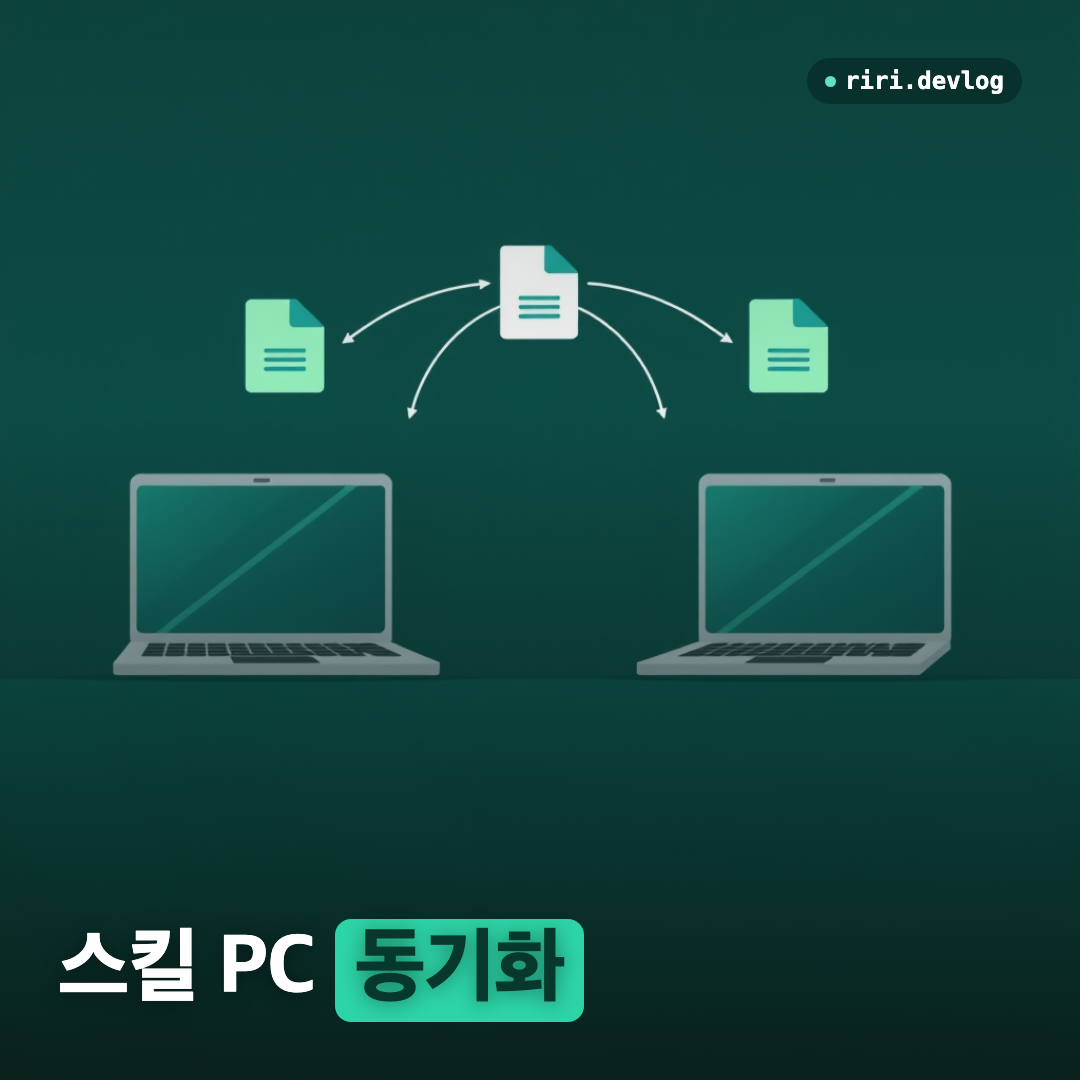
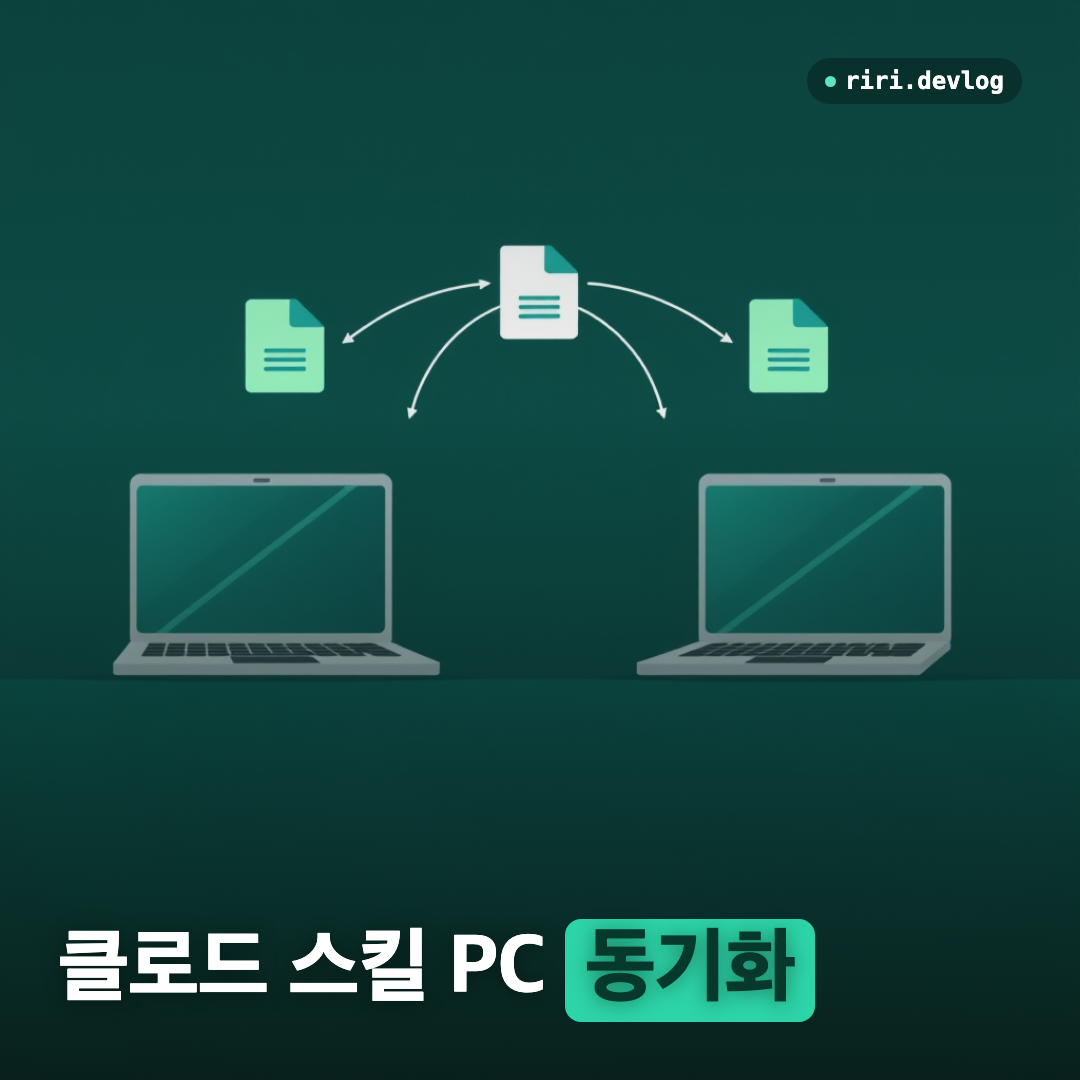
fix: 전체 커버 헤드라인을 주제 식별형으로 통일(15건 재생성, MAP 동기화)

Changed region(s): [[0.0611, 0.825, 0.7639, 0.9472]]

diff --git a/tools/gen_cover.py b/tools/gen_cover.py
@@ -73,18 +73,18 @@ def render(bg, slug, category, headline, highlight):
 
 
 MAP = [
-    ("claude-code-blog-automation-github-pages",            "자동화",    "블로그 자동 발행",   "자동 발행"),
-    ("website-analytics-goatcounter-ga4-search-console",    "운영",      "방문 통계 3종",     "3종"),
-    ("claude-code-skills-cross-machine-sync",               "자동화",    "스킬 PC 동기화",    "동기화"),
-    ("blog-to-instagram-automation-1-design",               "자동화",    "전체 설계",        "설계"),
-    ("blog-to-instagram-automation-2-card-generation",      "자동화",    "카드 자동 생성",    "자동"),
-    ("blog-to-instagram-automation-3-design",               "자동화",    "벤치마킹 ≠ 카피",   "≠ 카피"),
-    ("blog-to-instagram-automation-4-publish",              "자동화",    "심사 없이 자동 발행", "심사 없이"),
+    ("claude-code-blog-automation-github-pages", "자동화", "클로드코드로 블로그 자동화", "자동화"),
+    ("website-analytics-goatcounter-ga4-search-console", "운영", "블로그 통계 3종 셋업", "3종"),
+    ("claude-code-skills-cross-machine-sync", "자동화", "클로드 스킬 PC 동기화", "동기화"),
+    ("blog-to-instagram-automation-1-design", "자동화", "인스타 자동화 설계도", "설계도"),
+    ("blog-to-instagram-automation-2-card-generation", "자동화", "카드뉴스 자동 생성", "자동 생성"),
+    ("blog-to-instagram-automation-3-design", "자동화", "카드 벤치마킹 ≠ 카피", "≠ 카피"),
+    ("blog-to-instagram-automation-4-publish", "자동화", "인스타 심사 없이 발행", "심사 없이"),
     ("blog-to-instagram-automation-5-dm-wall",              "자동화",    "DM 자동화의 벽",    "벽"),
     ("ig-cloudflare-wrangler-login-failed",                 "트러블슈팅", "wrangler login 실패", "실패"),
     ("instagram-api-oauthexception-190-session-invalidated", "트러블슈팅", "OAuth 190 해결",   "해결"),
-    ("instagram-comment-webhook-not-working-dev-mode",      "트러블슈팅", "webhook이 안 올 때", "안 올 때"),
-    ("instagram-tester-invite-accept-error",                "트러블슈팅", "테스터 초대 실패",   "실패"),
+    ("instagram-comment-webhook-not-working-dev-mode", "트러블슈팅", "인스타 webhook 불통", "불통"),
+    ("instagram-tester-invite-accept-error", "트러블슈팅", "인스타 테스터 초대 실패", "실패"),
 ]
 
 

diff --git a/_posts/2026-06-11-claude-code-blog-automation-github-pages.md b/_posts/2026-06-11-claude-code-blog-automation-github-pages.md
@@ -1,6 +1,6 @@
 ---
 title: "클로드 코드 작업을 블로그로 자동 발행하기 — 조사부터 구축, 운영까지 한 세션의 기록"
-headline: "블로그 자동 발행"
+headline: "클로드코드로 블로그 자동화"
 date: 2026-06-11 13:10:00 +0900
 categories: [개발, 자동화]
 tags: [claude-code, github-pages, jekyll, chirpy, adsense, blog-automation, flux]

diff --git a/_posts/2026-06-19-blog-to-instagram-automation-3-design.md b/_posts/2026-06-19-blog-to-instagram-automation-3-design.md
@@ -1,6 +1,6 @@
 ---
 title: "블로그 글을 인스타그램에 자동 발행하기 (3) — 잘되는 카드 벤치마킹 vs 카피, 나만의 디자인"
-headline: "벤치마킹 ≠ 카피"
+headline: "카드 벤치마킹 ≠ 카피"
 date: 2026-06-19 10:10:00 +0900
 categories: [개발, 자동화]
 tags: [instagram, automation, design, ux-writing, blog-to-insta]

diff --git a/_posts/2026-06-19-blog-to-instagram-automation-2-card-generation.md b/_posts/2026-06-19-blog-to-instagram-automation-2-card-generation.md
@@ -1,6 +1,6 @@
 ---
 title: "블로그 글을 인스타그램에 자동 발행하기 (2) — 카드뉴스 자동 생성 (AI로 글자 넣으면 깨진다)"
-headline: "카드 자동 생성"
+headline: "카드뉴스 자동 생성"
 date: 2026-06-19 10:08:00 +0900
 categories: [개발, 자동화]
 tags: [instagram, automation, html, chrome-headless, blog-to-insta]

diff --git a/_posts/2026-06-19-blog-to-instagram-automation-4-publish.md b/_posts/2026-06-19-blog-to-instagram-automation-4-publish.md
@@ -1,6 +1,6 @@
 ---
 title: "블로그 글을 인스타그램에 자동 발행하기 (4) — Instagram API 심사 없이 자동 발행 (Composio)"
-headline: "심사 없이 자동 발행"
+headline: "인스타 심사 없이 발행"
 date: 2026-06-19 10:12:00 +0900
 categories: [개발, 자동화]
 tags: [instagram, automation, composio, api, blog-to-insta]

diff --git a/_posts/2026-06-19-instagram-tester-invite-accept-error.md b/_posts/2026-06-19-instagram-tester-invite-accept-error.md
@@ -1,6 +1,6 @@
 ---
 title: "Instagram 테스터 초대 수락 안 될 때 (manage_access '문제가 발생했습니다')"
-headline: "테스터 초대 실패"
+headline: "인스타 테스터 초대 실패"
 date: 2026-06-19 09:45:00 +0900
 categories: [개발, 트러블슈팅]
 tags: [instagram, meta-developers, troubleshooting, blog-to-insta]

diff --git a/_posts/2026-07-10-multiasset-backtest-index-alignment-bug.md b/_posts/2026-07-10-multiasset-backtest-index-alignment-bug.md
@@ -1,6 +1,6 @@
 ---
 title: "멀티에셋 백테스트가 수익률을 뻥튀기하는 이유 — 바 인덱스 정렬 함정"
-headline: "합산이 뻥튀기됐다"
+headline: "백테스트 수익률 뻥튀기"
 date: 2026-07-10 15:10:00 +0900
 categories: [개발, 트러블슈팅]
 tags: [백테스트, 퀀트, 멀티에셋, 시계열, 버그]

diff --git a/_posts/2026-07-10-financial-filter-bank-debt-ratio-false-positive.md b/_posts/2026-07-10-financial-filter-bank-debt-ratio-false-positive.md
@@ -1,6 +1,6 @@
 ---
 title: "재무 필터가 우량 은행을 걸러낼 때 — 부채비율 대신 계정 구조로 판별"
-headline: "우량 은행이 걸렸다"
+headline: "재무 필터가 은행 오탐"
 date: 2026-07-10 15:40:00 +0900
 categories: [개발, 트러블슈팅]
 tags: [재무분석, 부채비율, 금융업, 필터, dart]

diff --git a/_posts/2026-07-06-wso2-devportal-api-no-login.md b/_posts/2026-07-06-wso2-devportal-api-no-login.md
@@ -1,6 +1,6 @@
 ---
 title: "A사 API 포털, 회원가입 없이 스펙 전부 받아내기 (WSO2 Devportal)"
-headline: "가입 없이 스펙 확보"
+headline: "가입 없이 API 스펙 확보"
 date: 2026-07-06 15:00:00 +0900
 categories: [개발, 트러블슈팅]
 tags: [logistics-api, wso2, api-manager, devportal, openapi, swagger]

diff --git a/_posts/2026-07-23-live-pipeline-git-discipline.md b/_posts/2026-07-23-live-pipeline-git-discipline.md
@@ -1,6 +1,6 @@
 ---
 title: "매일 자동 실행되는 저장소에 코드 고쳐 넣기 — 봇이 커밋하는 파이프라인의 git 규율"
-headline: "봇이 쏘는 저장소"
+headline: "봇 커밋 저장소 git 규율"
 date: 2026-07-23 18:40:00 +0900
 categories: [개발, 자동화]
 tags: [git, automation, launchd, ci, rebase]

diff --git a/_posts/2026-06-16-claude-code-skills-cross-machine-sync.md b/_posts/2026-06-16-claude-code-skills-cross-machine-sync.md
@@ -1,6 +1,6 @@
 ---
 title: "Claude Code 스킬을 여러 PC에서 공유하기 — Mac·Windows 자동 동기화 파이프라인"
-headline: "스킬 PC 동기화"
+headline: "클로드 스킬 PC 동기화"
 date: 2026-06-16 09:40:00 +0900
 categories: [개발, 자동화]
 tags: [claude-code, skills, git, github, launchd, automation]

diff --git a/_posts/2026-06-15-website-analytics-goatcounter-ga4-search-console.md b/_posts/2026-06-15-website-analytics-goatcounter-ga4-search-console.md
@@ -1,6 +1,6 @@
 ---
 title: "블로그 방문 통계 보는 법 — GoatCounter·GA4·Search Console 3종 셋업 가이드"
-headline: "방문 통계 3종"
+headline: "블로그 통계 3종 셋업"
 date: 2026-06-15 08:45:00 +0900
 categories: [개발, 운영]
 tags: [analytics, goatcounter, ga4, search-console, seo, jekyll, chirpy]
